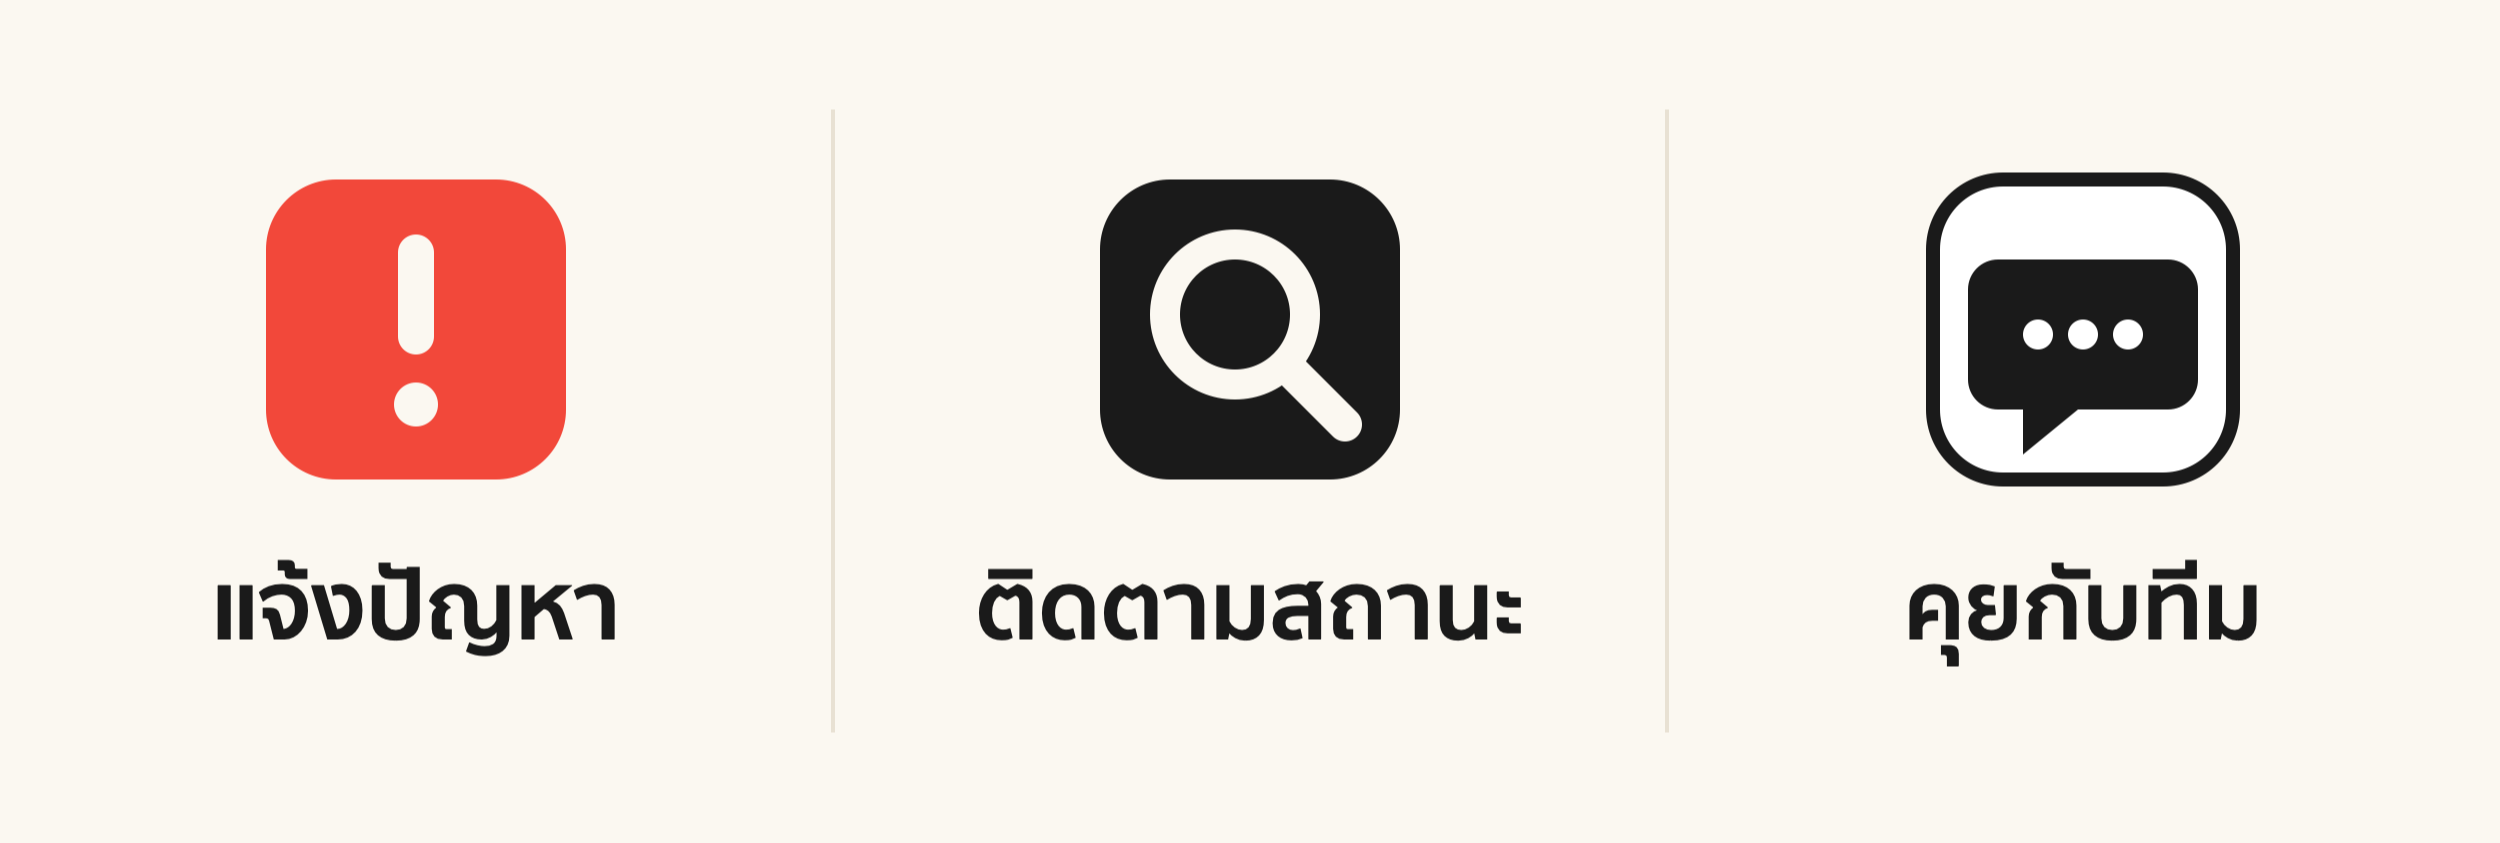
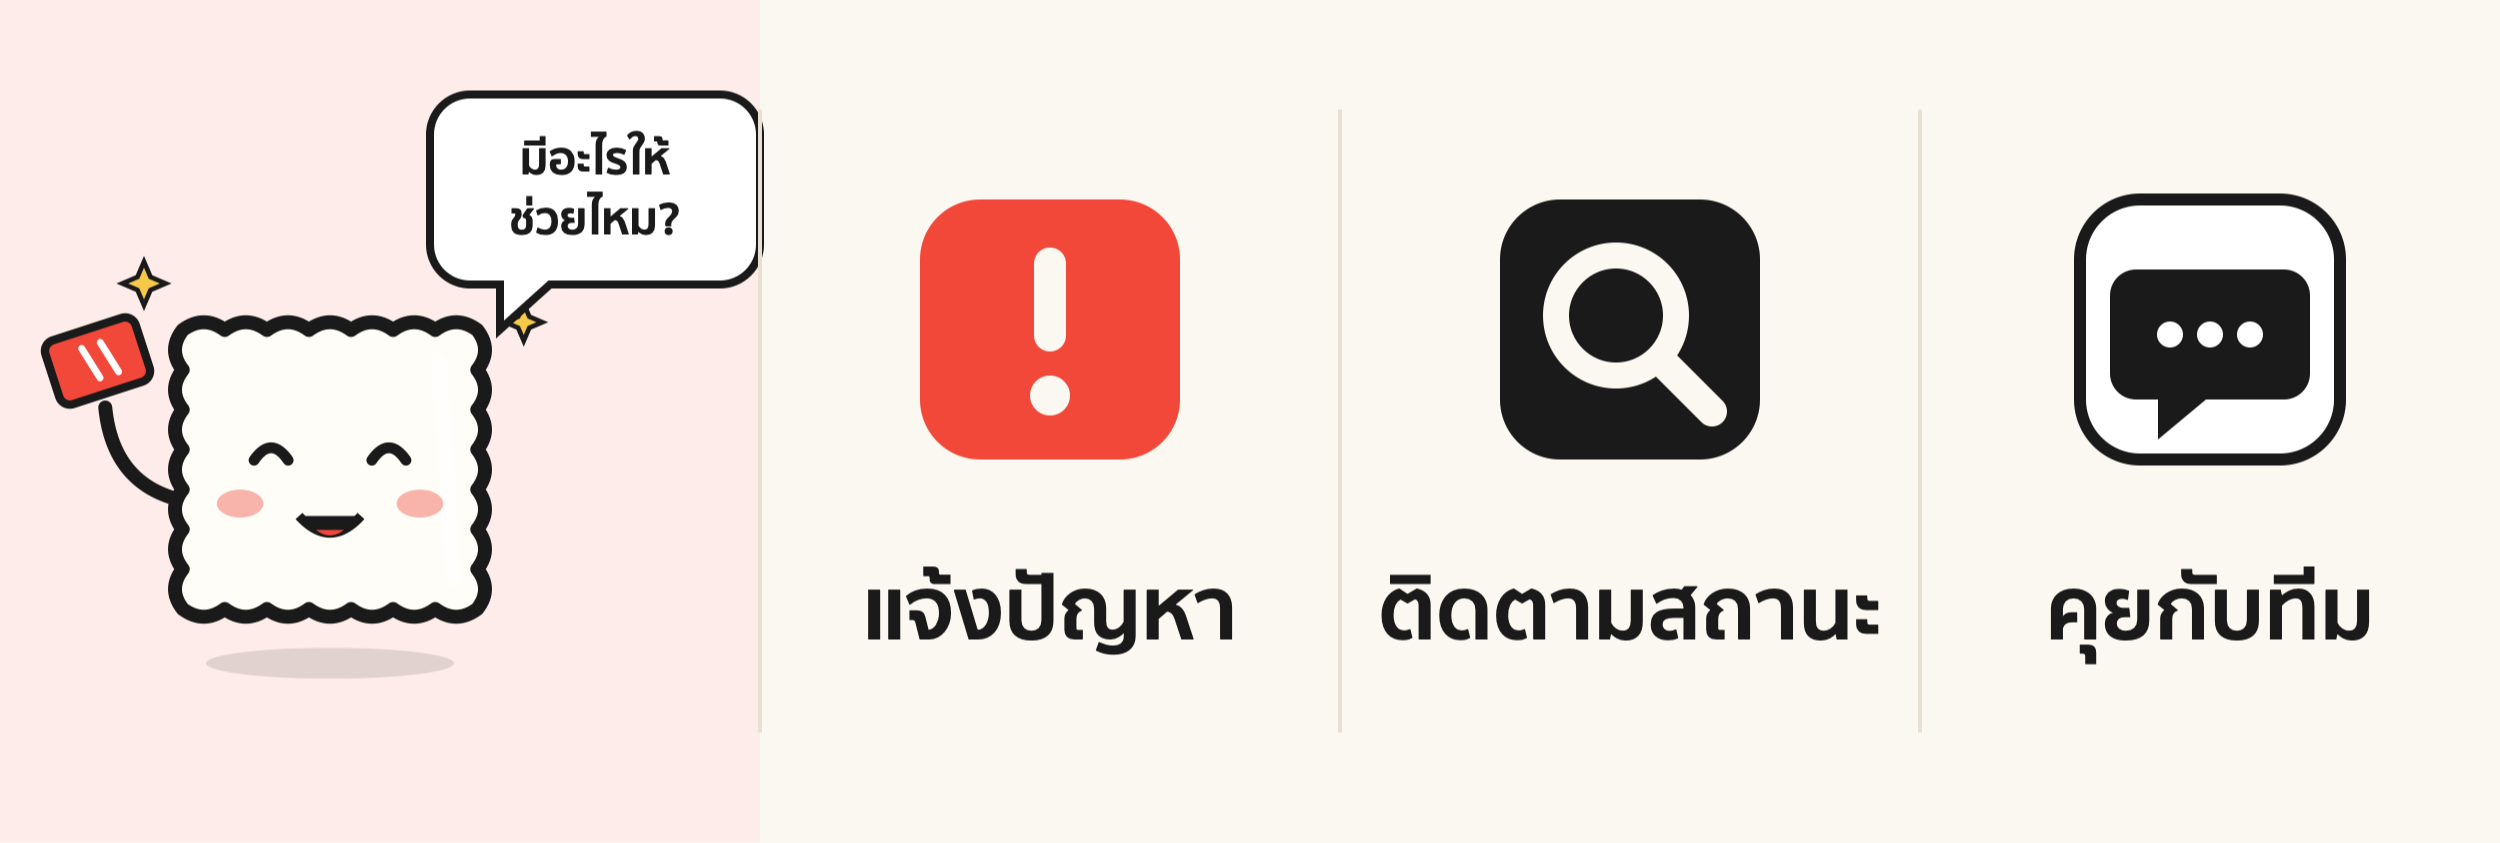
feat: น้องติ๊ก mascot moods on severity cards, LIFF pages, bot sender and the rich menu

diff --git a/apps/api/src/rich-menu/rich-menu.service.ts b/apps/api/src/rich-menu/rich-menu.service.ts
@@ -12,7 +12,9 @@ const KEY = 'customer_rich_menu';
 const IMAGE = new URL('../../assets/rich-menu-customer.png', import.meta.url);
 const BULK_LIMIT = 500;
 
-const third = Math.round(2500 / 3);
+// น้องติ๊ก on the left (says hello), then three buttons of equal width
+const MASCOT = 760;
+const BUTTON = (2500 - MASCOT) / 3;
 const area = (x: number, width: number, data: string, label: string): messagingApi.RichMenuArea => ({
   bounds: { x, y: 0, width, height: 843 },
   action: { type: 'postback', data, displayText: label, label },
@@ -24,9 +26,10 @@ export const CUSTOMER_MENU: messagingApi.RichMenuRequest = {
   name: 'tickget customer',
   chatBarText: 'เมนู',
   areas: [
-    area(0, third, 'a=report', 'แจ้งปัญหา'),
-    area(third, third, 'a=status', 'ติดตามสถานะ'),
-    area(third * 2, 2500 - third * 2, 'a=talk', 'คุยกับทีม'),
+    area(0, MASCOT, 'a=hello', 'น้องติ๊ก'),
+    area(MASCOT, BUTTON, 'a=report', 'แจ้งปัญหา'),
+    area(MASCOT + BUTTON, BUTTON, 'a=status', 'ติดตามสถานะ'),
+    area(MASCOT + BUTTON * 2, BUTTON, 'a=talk', 'คุยกับทีม'),
   ],
 };
 
@@ -58,9 +61,9 @@ export class RichMenuService {
   }
 
   async status(): Promise<RichMenuStatus> {
-    if (this.fromEnv) return { id: this.fromEnv, source: 'env' };
     const stored = await this.stored();
-    return { id: stored, source: stored ? 'auto' : null };
+    if (stored) return { id: stored, source: 'auto' };
+    return this.fromEnv ? { id: this.fromEnv, source: 'env' } : { id: null, source: null };
   }
 
   /** Links the menu for one customer, creating it first if there is none (or it was deleted on LINE). */
@@ -69,7 +72,7 @@ export class RichMenuService {
     try {
       await this.line.linkRichMenuIdToUser(userId, id);
     } catch (error) {
-      if (this.fromEnv || !isNotFound(error)) throw error;
+      if (!(await this.stored()) || !isNotFound(error)) throw error;
       // Someone deleted the menu in LINE Official Account Manager: make a new one and retry once
       this.logger.warn('Customer rich menu is gone on LINE, creating it again');
       await this.forget(id);
@@ -81,20 +84,24 @@ export class RichMenuService {
     await this.line.unlinkRichMenuIdFromUser(userId);
   }
 
-  /** Makes a fresh menu (e.g. after changing the image), moves every customer to it, removes the old one. */
+  /**
+   * Makes a fresh menu from the current image, moves every customer to it and removes the old one.
+   * The new menu is remembered in the database and wins over CUSTOMER_RICH_MENU_ID from then on.
+   */
   async rebuild(): Promise<RichMenuStatus & { linked: number }> {
     const old = await this.stored();
     if (old) await this.forget(old);
-    const id = await this.ensure();
+    this.creating ??= this.create().finally(() => (this.creating = null));
+    const id = await this.creating;
     const linked = await this.linkAllCustomers(id);
     if (old && old !== id) await this.line.deleteRichMenu(old).catch(() => undefined);
-    return { id, source: this.fromEnv ? 'env' : 'auto', linked };
+    return { id, source: 'auto', linked };
   }
 
   private async ensure(): Promise<string> {
-    if (this.fromEnv) return this.fromEnv;
     const stored = await this.stored();
     if (stored) return stored;
+    if (this.fromEnv) return this.fromEnv;
     // Several requests at once share one creation
     this.creating ??= this.create().finally(() => (this.creating = null));
     return this.creating;

diff --git a/apps/api/src/tickets/bot-messenger.service.ts b/apps/api/src/tickets/bot-messenger.service.ts
@@ -2,12 +2,15 @@ import { randomUUID } from 'node:crypto';
 import { Inject, Injectable, Logger } from '@nestjs/common';
 import { HTTPFetchError, messagingApi } from '@line/bot-sdk';
 import { eq, sql } from 'drizzle-orm';
+import { ConfigService } from '@nestjs/config';
+import type { Env } from '../config/env.js';
 import { DB, type Database } from '../db/database.module.js';
 import { lineUsers, messages } from '../db/schema.js';
 import { LINE_MESSAGING_CLIENT } from '../line/line.constants.js';
+import { mascotUrl, setMascotBase } from './ticket-messages.js';
 
-/** Automatic messages come from the bot persona, shown by LINE as the sender name. */
-export const BOT_SENDER: messagingApi.Sender = { name: 'น้องติ๊ก' };
+/** Automatic messages come from the bot persona, shown by LINE as the sender name (and picture). */
+export const BOT_NAME = 'น้องติ๊ก';
 
 export interface BotMessage {
   message: messagingApi.Message;
@@ -19,16 +22,24 @@ export interface BotMessage {
  * Sends automatic messages (ticket cards, prompts, notifications) and keeps a copy in the chat,
  * marked as sent by the system. Replies are free; pushes count against the OA's monthly quota.
  */
-const asBot = (item: BotMessage): messagingApi.Message => ({ ...item.message, sender: BOT_SENDER });
 
 @Injectable()
 export class BotMessengerService {
   private readonly logger = new Logger(BotMessengerService.name);
 
+  private readonly sender: messagingApi.Sender;
+
   constructor(
     @Inject(DB) private readonly db: Database,
     @Inject(LINE_MESSAGING_CLIENT) private readonly line: messagingApi.MessagingApiClient,
-  ) {}
+    config: ConfigService<Env, true>,
+  ) {
+    setMascotBase(config.get('WEB_ORIGIN', { infer: true }));
+    const icon = mascotUrl('greet');
+    this.sender = icon ? { name: BOT_NAME, iconUrl: icon } : { name: BOT_NAME };
+  }
+
+  private asBot = (item: BotMessage): messagingApi.Message => ({ ...item.message, sender: this.sender });
 
   /**
    * Answers the customer's latest message or button press. The reply token is taken from the
@@ -38,7 +49,7 @@ export class BotMessengerService {
     const token = await this.takeToken(sourceMessageId);
     if (token) {
       try {
-        await this.line.replyMessage({ replyToken: token, messages: items.map(asBot) });
+        await this.line.replyMessage({ replyToken: token, messages: items.map(this.asBot) });
         await this.store(userId, items, { delivery: 'reply', error: null });
         return;
       } catch (error) {
@@ -55,7 +66,7 @@ export class BotMessengerService {
   /** Answers an event that is not stored as a chat message (e.g. someone adding the OA). */
   async replyToEvent(userId: string, replyToken: string, items: BotMessage[]): Promise<void> {
     try {
-      await this.line.replyMessage({ replyToken, messages: items.map(asBot) });
+      await this.line.replyMessage({ replyToken, messages: items.map(this.asBot) });
       await this.store(userId, items, { delivery: 'reply', error: null });
     } catch (error) {
       this.logger.warn(`Bot reply failed: ${(error as Error).message}`);
@@ -74,7 +85,7 @@ export class BotMessengerService {
       return false;
     }
     try {
-      await this.line.pushMessage({ to: userId, messages: items.map(asBot) }, randomUUID());
+      await this.line.pushMessage({ to: userId, messages: items.map(this.asBot) }, randomUUID());
       await this.store(userId, items, { delivery: 'push', error: null });
       return true;
     } catch (error) {

diff --git a/apps/web/src/components/liff/liff-home.tsx b/apps/web/src/components/liff/liff-home.tsx
@@ -5,6 +5,7 @@ import useSWR from "swr";
 import { ChevronRight, Plus } from "lucide-react";
 import { formatListTime } from "@/lib/format";
 import { LiffCard, primaryButton } from "./brand";
+import { Mascot } from "./mascot";
 import { CUSTOMER_STATUS, levelOf, type LiffTicket } from "./liff-data";
 import { liffFetch, useLiff } from "./liff-provider";
 
@@ -17,8 +18,9 @@ export function LiffHome() {
 
   if (!isCustomer) {
     return (
-      <LiffCard className="mt-6 text-center">
-        <p className="text-lg font-bold">สวัสดีครับ{me?.displayName ? ` คุณ${me.displayName}` : ""}</p>
+      <LiffCard className="mt-6 flex flex-col items-center text-center">
+        <Mascot mood={me?.pendingApproval ? "p3" : "greet"} size={120} className="mb-3" />
+        <p className="text-lg font-bold">สวัสดีครับ{me?.displayName ? ` คุณ${me.displayName}` : ""} น้องติ๊กเองครับ</p>
         <p className="mt-2 text-sm text-zinc-600">
           {me?.pendingApproval ? "ได้รับคำขอแล้ว รอทีมงานอนุมัติสักครู่นะครับ" : "บัญชีนี้ยังไม่มีสิทธิ์แจ้งปัญหา ขอลิงก์เชิญจากทีมงานได้เลยครับ"}
         </p>
@@ -28,6 +30,10 @@ export function LiffHome() {
 
   return (
     <div className="space-y-6 pt-2">
+      <div className="flex items-center gap-3">
+        <Mascot mood="greet" size={64} />
+        <p className="font-bold">มีอะไรให้น้องติ๊กช่วยเหลือไหมครับ?</p>
+      </div>
       <Link href="/liff/new" className={primaryButton}>
         <Plus className="size-5" /> แจ้งปัญหาใหม่
       </Link>
@@ -44,7 +50,10 @@ function TicketGroup({ title, tickets, empty }: { title: string; tickets?: LiffT
       {!tickets ? (
         <div className="h-20 animate-pulse rounded-3xl bg-white/70" />
       ) : tickets.length === 0 ? (
-        <p className="rounded-3xl bg-white/60 px-4 py-6 text-center text-sm text-zinc-500">{empty}</p>
+        <p className="flex flex-col items-center gap-2 rounded-3xl bg-white/60 px-4 py-6 text-center text-sm text-zinc-500">
+          <Mascot mood="p4" size={72} />
+          {empty}
+        </p>
       ) : (
         <ul className="space-y-2">
           {tickets.map((t) => {

diff --git a/apps/api/src/tickets/ticket-messages.ts b/apps/api/src/tickets/ticket-messages.ts
@@ -8,6 +8,19 @@ const INK = '#1A1A1A';
 const CREAM = '#FBF8F1';
 const MUTED = '#8A857C';
 
+/**
+ * น้องติ๊ก pictures live in the web app (apps/web/public/brand/mascot). LINE only loads https
+ * images, so on a local http origin cards simply go without them.
+ */
+let mascotBase: string | null = null;
+export function setMascotBase(webOrigin: string) {
+  mascotBase = webOrigin.startsWith('https://') ? `${webOrigin.replace(/\/$/, '')}/brand/mascot` : null;
+}
+export const mascotUrl = (name: 'greet' | 'p1' | 'p2' | 'p3' | 'p4' | 'p5') => (mascotBase ? `${mascotBase}/${name}.png` : null);
+
+// Mood colours behind each น้องติ๊ก picture
+const MOOD_BG: Record<Severity, string> = { P1: '#FDD5D0', P2: '#FDE2C6', P3: '#FBEFB7', P4: '#D3EFDC', P5: '#D3E3FB' };
+
 type Flex = messagingApi.FlexMessage;
 type Bubble = messagingApi.FlexBubble;
 type QuickReply = messagingApi.QuickReply;
@@ -69,9 +82,22 @@ const thaiTime = new Intl.DateTimeFormat('th-TH', {
 export function severityPicker(): BotMessage[] {
   const bubbles: Bubble[] = SEVERITIES.map((severity) => {
     const info = SLA[severity];
+    const picture = mascotUrl(severity.toLowerCase() as 'p1');
     return {
       type: 'bubble',
       size: 'micro',
+      ...(picture
+        ? {
+            hero: {
+              type: 'image' as const,
+              url: picture,
+              size: 'full',
+              aspectRatio: '1:1',
+              aspectMode: 'cover' as const,
+              backgroundColor: MOOD_BG[severity],
+            },
+          }
+        : {}),
       styles: { body: { backgroundColor: CREAM }, footer: { backgroundColor: CREAM } },
       body: {
         type: 'box',

diff --git a/apps/web/src/components/liff/liff-new-ticket.tsx b/apps/web/src/components/liff/liff-new-ticket.tsx
@@ -7,6 +7,7 @@ import { Check } from "lucide-react";
 import type { Severity, TicketCategory } from "@/lib/types";
 import { primaryButton } from "./brand";
 import { ImagePicker, uploadImage } from "./image-picker";
+import { Mascot, type Mood } from "./mascot";
 import { LEVELS, type LiffTicket } from "./liff-data";
 import { liffFetch, useLiff } from "./liff-provider";
 
@@ -75,11 +76,11 @@ export function LiffNewTicket() {
                   selected ? "border-[#F2483A] ring-2 ring-[#F2483A]/30" : "border-[#1A1A1A]",
                 )}
               >
-                <span className="flex size-10 shrink-0 items-center justify-center rounded-2xl text-xs font-extrabold text-white" style={{ background: level.color }}>
-                  {level.severity}
-                </span>
+                <Mascot mood={level.severity.toLowerCase() as Mood} size={60} />
                 <span className="min-w-0 flex-1">
-                  <span className="block font-bold">{level.label}</span>
+                  <span className="block font-bold">
+                    <span style={{ color: level.color }}>{level.severity}</span> {level.label}
+                  </span>
                   <span className="block text-sm">{level.hint}</span>
                   <span className="block text-xs text-zinc-500">{level.examples}</span>
                   <span className="mt-1 block text-xs font-semibold" style={{ color: level.color }}>

diff --git a/apps/web/src/components/liff/liff-join.tsx b/apps/web/src/components/liff/liff-join.tsx
@@ -4,6 +4,7 @@ import { useEffect, useRef, useState } from "react";
 import Link from "next/link";
 import { useLiff, liffFetch } from "./liff-provider";
 import { LiffCard, primaryButton } from "./brand";
+import { Mascot } from "./mascot";
 
 type Result = "granted" | "pending" | "already" | "invalid" | "expired" | "used" | "revoked" | "wrong_user" | "blocked";
 
@@ -57,7 +58,8 @@ export function LiffJoin() {
 
   return (
     <div className="space-y-4 pt-6">
-      <LiffCard className="text-center">
+      <LiffCard className="flex flex-col items-center text-center">
+        <Mascot mood={message.ok ? (result === "pending" ? "p3" : "greet") : "p2"} size={120} className="mb-3" />
         <p className="text-xl font-extrabold">{message.title}</p>
         <p className="mt-2 text-sm text-zinc-600">{message.body}</p>
       </LiffCard>

diff --git a/apps/api/src/tickets/customer-flow.service.ts b/apps/api/src/tickets/customer-flow.service.ts
@@ -35,6 +35,7 @@ const POSTBACK_LABELS: Record<string, string> = {
   reopen: 'ยังไม่หาย',
   skip: 'ข้าม',
   finish: 'เสร็จแล้ว',
+  hello: 'น้องติ๊ก',
 };
 
 /**
@@ -71,6 +72,9 @@ export class CustomerFlowService {
     const action = params.get('a');
     const reply = (items: BotMessage | BotMessage[]) => this.bot.reply(userId, source.messageId, [items].flat());
 
+    if (action === 'hello') {
+      return reply(say.greeting(await this.isCustomer(userId)));
+    }
     if (action === 'finish') {
       await this.clearState(userId);
       return reply(say.doneAdding());

diff --git a/apps/web/src/components/liff/mascot.tsx b/apps/web/src/components/liff/mascot.tsx
@@ -1,0 +1,17 @@
+import Image from "next/image";
+import clsx from "clsx";
+
+export type Mood = "greet" | "p1" | "p2" | "p3" | "p4" | "p5";
+
+/** น้องติ๊ก, the tickget mascot, in one of its moods. */
+export function Mascot({ mood, size = 56, className }: { mood: Mood; size?: number; className?: string }) {
+  return (
+    <Image
+      src={`/brand/mascot/${mood}.png`}
+      alt="น้องติ๊ก"
+      width={size}
+      height={size}
+      className={clsx("shrink-0 rounded-2xl border-2 border-[#1A1A1A]", className)}
+    />
+  );
+}
